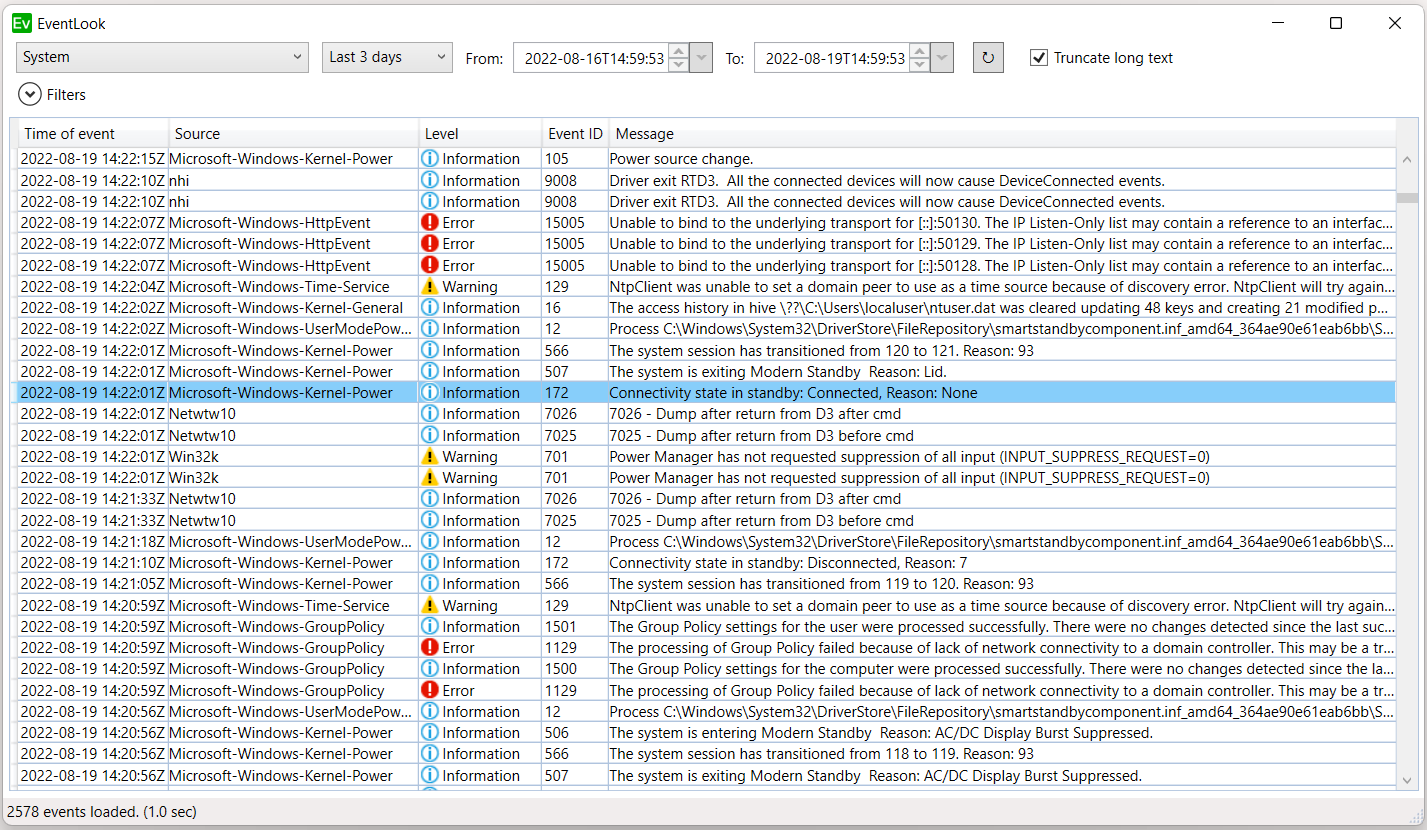
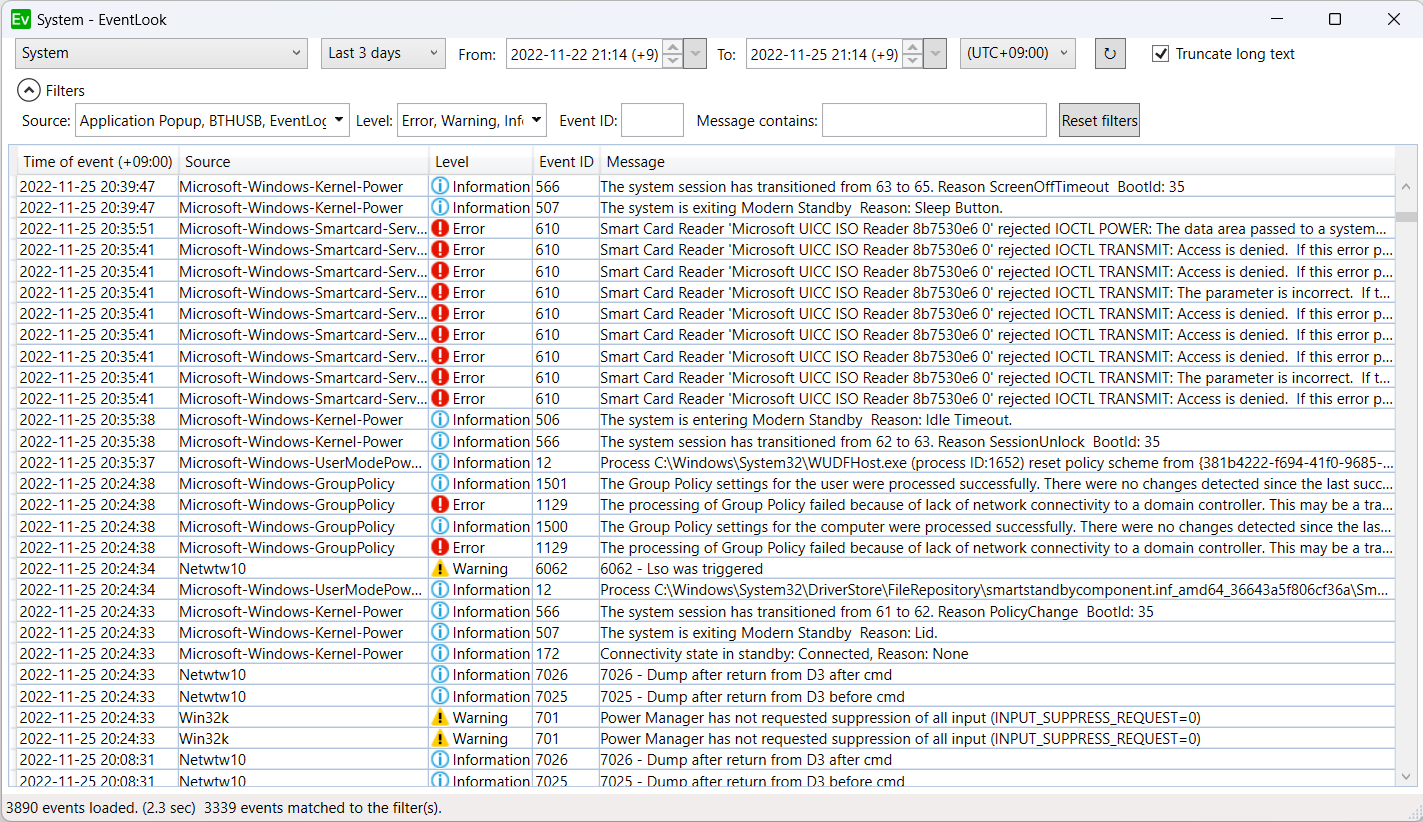
Update README

diff --git a/README.md b/README.md
@@ -17,10 +17,11 @@ The inbox Windows Event Viewer is a great app that provides comprehensive functi
 - Overview events with Event Log messages
 - Asynchronous event fetching for quick glance
 - Provides quicker sort, specifying time range, and filters
-- Quick access to your favorite Applications and Services Logs (coming soon) 
+- Quick access to your favorite Applications and Services Logs (Needs rebuild as of now) 
 - Supports .evtx file (open from Explorer or drag & drop .evtx file)
 - Double click to view event details in XML format
-- Right click to filter quickly
+- Right click to quickly filter events
+- Adjust time of events by time zone (Useful when you investigate .evtx file from different time zone)
 
 # Install
 Install from [Microsoft Store](https://www.microsoft.com/store/apps/9NJV5FQ089Z0).
